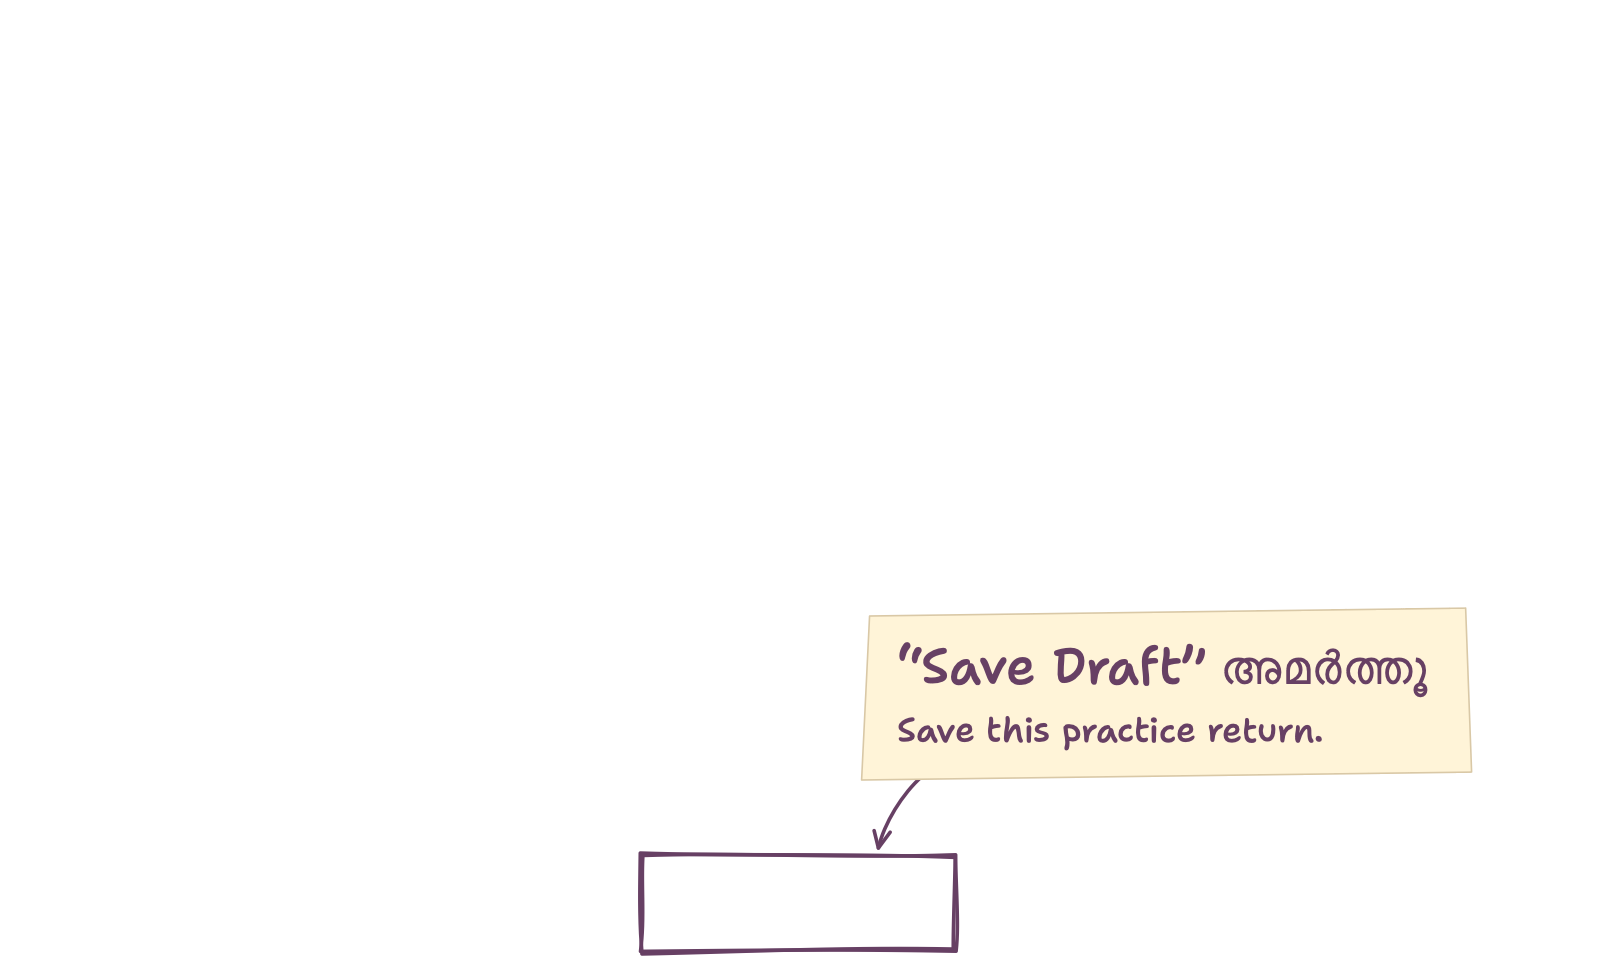
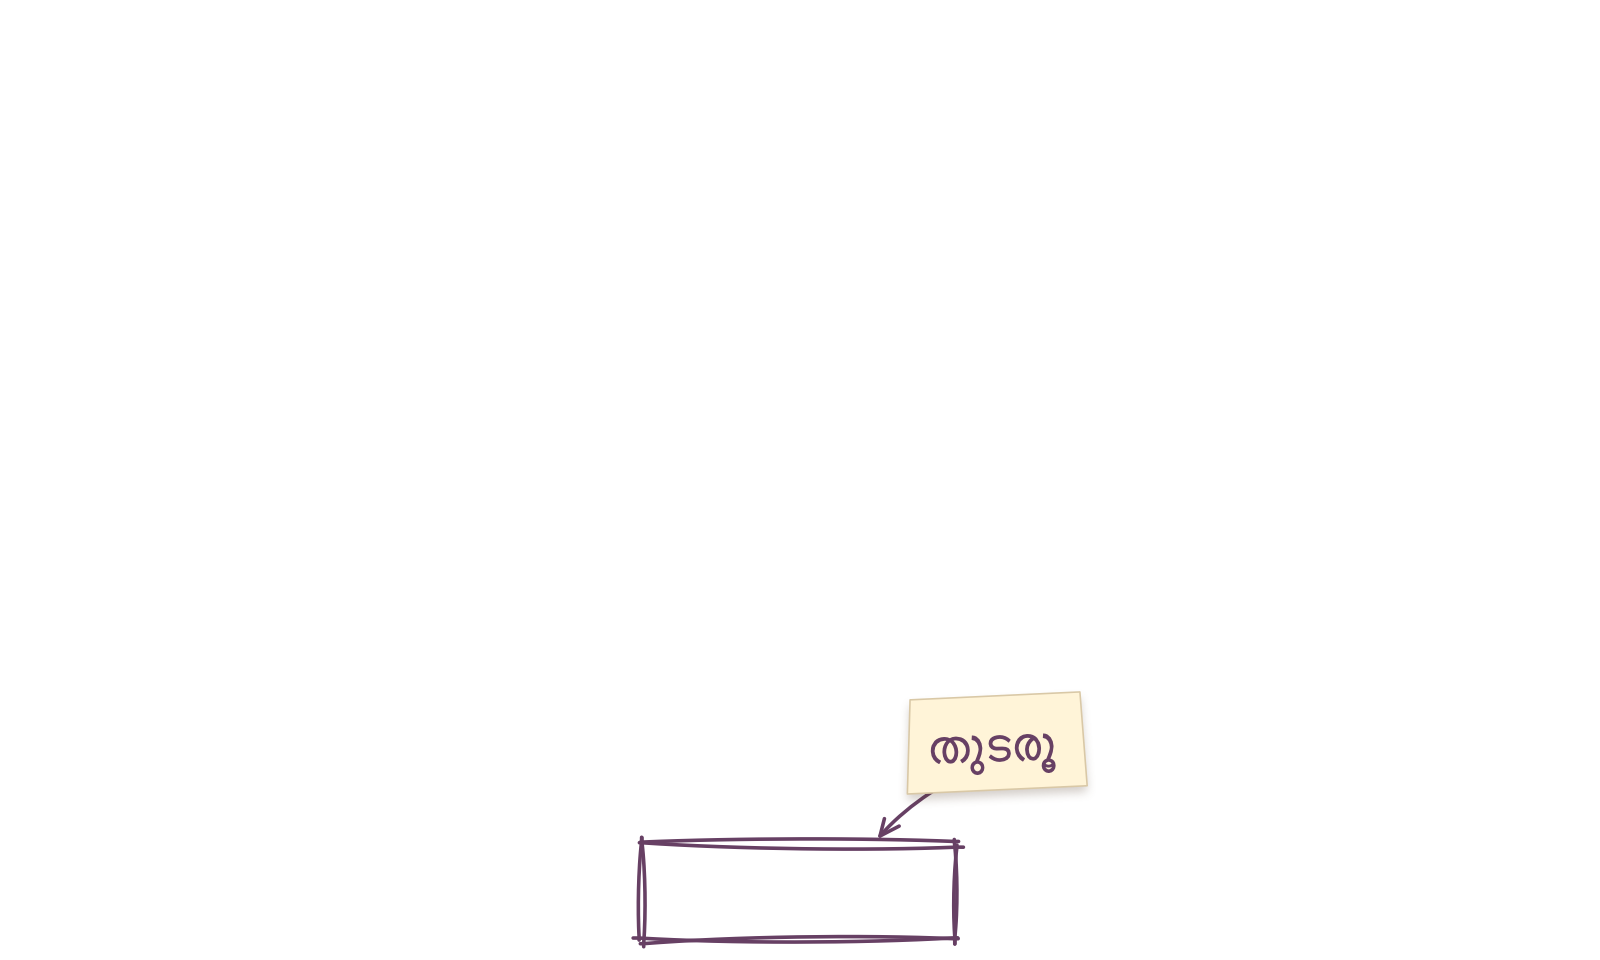
Give the sketch pointer rougher ink and a closer, text-fitted note

Changed region(s): [[0.5312, 0.625, 0.9375, 0.8438], [0.375, 0.8438, 0.625, 1.0]]

diff --git a/companion/overlay/drawing.py b/companion/overlay/drawing.py
@@ -1,7 +1,7 @@
 """Original AppKit paths and text layout for the selected plum and paper style."""
 
 from functools import lru_cache
-from math import ceil, hypot
+from math import ceil, cos, hypot, radians, sin
 from pathlib import Path
 from random import Random
 
@@ -65,53 +65,85 @@ def line_path(points, width, close=False):
     return path
 
 
-def outline(target, seed):
+ROUGHNESS = 1.9
+PAPER_ANGLE = -2
+TILT_SIN = abs(sin(radians(PAPER_ANGLE)))
+TILT_COS = cos(radians(PAPER_ANGLE))
+PAD_X, PAD_Y = 12, 7
+
+
+def outline(target, seed, lean):
+    """One pen pass. Bow each side, then extend its tangents beyond the corners."""
     x, y, w, h = target
     rng = Random(seed)
-
-    def jitter():
-        return rng.uniform(-1.9, 1.9)
-
     left, right = x - 8, x + w + 8
     top, bottom = y - 7, y + h + 7
+    # Each pass starts at slightly different corners. A modest offset plus
+    # independent errors lets the lines meet at some corners and splay at others.
     corners = [(left, top), (right, top), (right, bottom), (left, bottom)]
-    corners = [(a + jitter(), b + jitter()) for a, b in corners]
+    corners = [(a + lean * .85 + rng.uniform(-ROUGHNESS, ROUGHNESS),
+                b + lean * .85 + rng.uniform(-ROUGHNESS, ROUGHNESS)) for a, b in corners]
     path = line_path(corners[:1], 1.8)
+    tails = []
     for (sx, sy), (ex, ey) in zip(corners, corners[1:] + corners[:1]):
         dx, dy = ex - sx, ey - sy
-        first = (sx + dx * .33 + jitter(), sy + dy * .33 + jitter())
-        second = (sx + dx * .67 + jitter(), sy + dy * .67 + jitter())
+        length = hypot(dx, dy)
+        ux, uy = dx / length, dy / length
+        bow = min(1.55 * ROUGHNESS, length * .035) * rng.uniform(.8, 1.2) * lean
+        first = (sx + dx * .30 - uy * bow, sy + dy * .30 + ux * bow)
+        second = (sx + dx * .72 - uy * bow, sy + dy * .72 + ux * bow)
         path.curveToPoint_controlPoint1_controlPoint2_((ex, ey), first, second)
+        before, after = rng.uniform(.4, 1.6), rng.uniform(1.4, 4.2)
+        tails.extend([((sx - ux * before, sy - uy * before), (sx, sy)),
+                      ((ex, ey), (ex + ux * after, ey + uy * after))])
     path.closePath()
+    for start, end in tails:
+        path.moveToPoint_(start)
+        path.lineToPoint_(end)
     return path
 
 
-def draw_arrow(note, target):
+def arrow_ends(note, target):
     x, y, w, h = note
     tx, ty, tw, th = target
-    # Select facing edges. A small horizontal offset gives the stem a bend.
-    if y+h <= ty or ty+th <= y:
-        above = y+h <= ty
-        ex = clamp(x+w/2, tx+tw*.22, tx+tw*.78)
-        ey = ty-11 if above else ty+th+11
-        sx = clamp(ex+22, x+16, x+w-16)
-        sy = y+h-2 if above else y+2
+    # Start just inside the paper. The last few points are covered by the
+    # rotated card, so the ink meets its edge cleanly in either direction.
+    if y + h <= ty or ty + th <= y:
+        above = y + h <= ty
+        points_left = x + w / 2 >= tx + tw / 2
+        inset = min(30, tw * .25)
+        ex = tx + tw - inset if points_left else tx + inset
+        reach = 46 if points_left else -46
+        sx = clamp(ex + reach, x + 10, x + w - 10)
+        # A control can extend beyond both screen edges. Choose a reachable
+        # point on its border after the paper has been clamped to this display.
+        ex = clamp(sx - reach, tx + inset, tx + tw - inset)
+        sy = y + h - 11 if above else y + 11
+        ey = ty - 11 if above else ty + th + 11
     else:
-        left = x+w <= tx
-        ex, sx = (tx-12, x+w-2) if left else (tx+tw+12, x+2)
-        ey = clamp(y+h/2, ty, ty+th)
-        sy = clamp(ey+12, y+10, y+h-10)
-    dx, dy = ex-sx, ey-sy
+        left = x + w <= tx
+        ex, sx = (tx - 12, x + w - 6) if left else (tx + tw + 12, x + 6)
+        ey = clamp(y + h / 2, ty, ty + th)
+        sy = clamp(ey + 23, y + 10, y + h - 10)
+    return (sx, sy), (ex, ey)
+
+
+def draw_arrow(note, target):
+    start, end = arrow_ends(note, target)
+    sx, sy = start
+    ex, ey = end
+    dx, dy = ex - sx, ey - sy
     length = max(1, hypot(dx, dy))
-    nx, ny = -dy/length, dx/length
-    path = line_path([(sx, sy)], 1.8)
-    c2 = (ex-dx*.28+nx*4, ey-dy*.28+ny*4)
-    path.curveToPoint_controlPoint1_controlPoint2_((ex,ey), (sx+dx*.3+nx*4, sy+dy*.3+ny*4), c2)
+    nx, ny = -dy / length, dx / length
+    path = line_path([start], 1.8)
+    first = (sx + dx * .3 + nx * 5, sy + dy * .3 + ny * 5)
+    second = (ex - dx * .28 + nx * 4, ey - dy * .28 + ny * 4)
+    path.curveToPoint_controlPoint1_controlPoint2_(end, first, second)
     path.stroke()
-    length = max(1, hypot(c2[0]-ex, c2[1]-ey))
-    ax, ay = (c2[0]-ex)/length, (c2[1]-ey)/length
-    line_path([(ex+ax*9-ay*4, ey+ay*9+ax*4), (ex,ey),
-               (ex+ax*8+ay*4, ey+ay*8-ax*4)], 1.8).stroke()
+    length = max(1, hypot(second[0] - ex, second[1] - ey))
+    ax, ay = (second[0] - ex) / length, (second[1] - ey) / length
+    line_path([(ex + ax * 10 - ay * 4, ey + ay * 10 + ax * 4), end,
+               (ex + ax * 8 + ay * 4, ey + ay * 8 - ax * 4)], 1.8).stroke()
 
 
 class SketchPointerView(A.NSView):
@@ -121,33 +153,63 @@ class SketchPointerView(A.NSView):
     @objc.python_method
     def configure(self, target, visible, instruction, subtitle):
         self.target = target
-        self.outlines = [outline(target, seed) for seed in (31, 47)]
-        self.lines = []
-        for text, size in ((instruction, 25), (subtitle, 17)):
-            if text:
-                self.lines.append(lettering(text, size))
-        natural = max((line.size().width for line in self.lines), default=0)
-        width = min(visible[2]-16, 460, max(120, ceil(natural)+38))
-        self.heights = [ceil(line.boundingRectWithSize_options_(
-            (width-36, 10000), TEXT_OPTIONS).size.height) for line in self.lines]
-        height = 26 + sum(self.heights) + 4 * max(0, len(self.lines)-1)
-        self.note = place_note(target, visible, width, height)
+        self.outlines = [outline(target, 31, 1), outline(target, 47, -.8)]
+        self.lines = [lettering(text, size) for text, size in ((instruction, 25), (subtitle, 17))
+                      if text.strip()]
+
+        # Reserve room for rotation before measuring. Use the widest actual
+        # wrapped line so short translations and single-word prompts fit snugly.
+        available_w, available_h = visible[2] - 20, visible[3] - 20
+        max_width = min(420, available_w - min(available_h, 420) * TILT_SIN)
+        measure_width = max(1, max_width - 2 * PAD_X)
+        sizes = [line.boundingRectWithSize_options_((measure_width, 10000), TEXT_OPTIONS).size
+                 for line in self.lines]
+        self.text_width = min(measure_width, ceil(max((size.width for size in sizes), default=0)) + 1)
+        self.heights = [ceil(size.height) for size in sizes]
+        width = self.text_width + 2 * PAD_X
+        height = 2 * PAD_Y + sum(self.heights) + 2 * max(0, len(sizes) - 1)
+        # Keep even an unusually tall note's rotated paper inside the screen.
+        height = min(height, (available_h - width * TILT_SIN) / TILT_COS,
+                     (available_w - width * TILT_COS) / TILT_SIN)
+        self.paper_size = width, height
+        self.note = place_note(target, visible, width * TILT_COS + height * TILT_SIN,
+                               height * TILT_COS + width * TILT_SIN)
 
     def drawRect_(self, dirty):
         INK.setStroke()
         for path in self.outlines:
             path.stroke()
         draw_arrow(self.note, self.target)
-        x, y, w, h = self.note
-        paper = line_path([(x+4,y+4), (x+w-3,y), (x+w,y+h-4), (x,y+h)], .8, True)
-        PAPER.setFill()
-        BORDER.setStroke()
-        paper.fill()
-        paper.stroke()
-        top = y+12
-        for line, height in zip(self.lines, self.heights):
-            room = min(height, y+h-10-top)
-            if room <= 0:
-                break
-            line.drawWithRect_options_(((x+18, top), (w-36, room)), TEXT_OPTIONS)
-            top += height+4
+
+        x, y, nw, nh = self.note
+        w, h = self.paper_size
+        A.NSGraphicsContext.saveGraphicsState()
+        try:
+            transform = A.NSAffineTransform.transform()
+            transform.translateXBy_yBy_(x + nw / 2, y + nh / 2)
+            transform.rotateByDegrees_(PAPER_ANGLE)
+            transform.translateXBy_yBy_(-w / 2, -h / 2)
+            transform.concat()
+            paper = line_path([(3, 1), (w - 2, 0), (w, h - 1), (0, h)], .8, True)
+            A.NSGraphicsContext.saveGraphicsState()
+            try:
+                shadow = A.NSShadow.alloc().init()
+                shadow.setShadowColor_(A.NSColor.colorWithSRGBRed_green_blue_alpha_(.28, .18, .10, .24))
+                shadow.setShadowOffset_((0, -3))
+                shadow.setShadowBlurRadius_(5)
+                shadow.set()
+                PAPER.setFill()
+                paper.fill()
+            finally:
+                A.NSGraphicsContext.restoreGraphicsState()
+            BORDER.setStroke()
+            paper.stroke()
+            top = PAD_Y
+            for line, height in zip(self.lines, self.heights):
+                room = min(height, h - PAD_Y - top)
+                if room <= 0:
+                    break
+                line.drawWithRect_options_(((PAD_X, top), (self.text_width, room)), TEXT_OPTIONS)
+                top += height + 2
+        finally:
+            A.NSGraphicsContext.restoreGraphicsState()

diff --git a/tests/test_overlay_layout.py b/tests/test_overlay_layout.py
@@ -1,0 +1,57 @@
+"""Exercise text shaping and paper layout together, without opening a window."""
+
+from math import ceil, dist
+import unittest
+
+import AppKit as A
+
+from companion.overlay.drawing import PAD_X, PAD_Y, TEXT_OPTIONS, SketchPointerView, arrow_ends
+
+
+class NoteLayoutTests(unittest.TestCase):
+    def layout(self, text, subtitle="", target=(240, 325, 122, 36)):
+        A.NSApplication.sharedApplication()
+        view = SketchPointerView.alloc().initWithFrame_(((0, 0), (800, 480)))
+        view.configure(target, (0, 0, 800, 480), text, subtitle)
+        return view
+
+    def test_single_line_hugs_the_text_in_both_languages(self):
+        for instruction in ("തുടരൂ", "Save"):
+            with self.subTest(instruction=instruction):
+                view = self.layout(instruction)
+                self.assertEqual(len(view.lines), 1)
+                measured = view.lines[0].size()
+                self.assertAlmostEqual(view.paper_size[0], measured.width + 2 * PAD_X, delta=2)
+                self.assertEqual(view.paper_size[1], ceil(measured.height) + 2 * PAD_Y)
+
+    def test_long_instruction_wraps_without_losing_the_last_line(self):
+        view = self.layout("‘Business Name’ എന്ന ബോക്സിൽ പരിശീലനത്തിനായി ഒരു സാങ്കൽപ്പിക കടപ്പേര് എഴുതുക.")
+        self.assertLessEqual(view.paper_size[0], 420)
+        line = view.lines[0]
+        self.assertGreater(view.heights[0], line.size().height * 2)
+        drawn = line.boundingRectWithSize_options_((view.text_width, 10000), TEXT_OPTIONS)
+        self.assertEqual(view.heights[0], ceil(drawn.size.height))
+        self.assertEqual(view.paper_size[1], view.heights[0] + 2 * PAD_Y)
+
+    def test_rotated_note_and_arrow_fit_near_edges(self):
+        for target in [(16, 17, 140, 34), (644, 17, 140, 34),
+                       (16, 429, 140, 34), (644, 429, 140, 34)]:
+            with self.subTest(target=target):
+                view = self.layout("Click “Save Draft”", "Save this practice return.", target)
+                x, y, w, h = view.note
+                self.assertGreater(h, view.paper_size[1])
+                self.assertGreaterEqual(min(x, y), 10)
+                self.assertGreaterEqual(min(800 - x - w, 480 - y - h), 9.99)
+                # The card reaches over a corner in x, leaving the button free in y.
+                tx, ty, tw, th = target
+                self.assertGreater(min(x + w, tx + tw) - max(x, tx), 0)
+                self.assertTrue(y > ty + th or y + h < ty)
+                length = dist(*arrow_ends(view.note, target))
+                self.assertTrue(30 <= length <= 60, length)
+
+    def test_wide_control_keeps_arrow_on_the_chosen_display(self):
+        target = (-300, 300, 1400, 40)
+        view = self.layout("Continue", target=target)
+        start, end = arrow_ends(view.note, target)
+        self.assertTrue(0 <= end[0] <= 800)
+        self.assertTrue(30 <= dist(start, end) <= 60)

diff --git a/tests/test_overlay_live.py b/tests/test_overlay_live.py
@@ -49,6 +49,7 @@ def main():
     win = A.NSWindow.alloc().initWithContentRect_styleMask_backing_defer_(
         ((160, 260), (310, 150)), A.NSWindowStyleMaskTitled, A.NSBackingStoreBuffered, False)
     win.setTitle_("Companion pointer test")
+    win.setLevel_(A.NSFloatingWindowLevel)
     counter = SketchButtonCounter.alloc().init()
     counter.clicks = 0
     button = A.NSButton.buttonWithTitle_target_action_("Practice", counter, "clicked:")
@@ -82,7 +83,11 @@ def main():
 
         # Use the system hit-test result, then post to our own app queue. A
         # foreign window, including one moved here mid-test, cannot get a click.
-        recipient = A.NSWindow.windowNumberAtPoint_belowWindowWithWindowNumber_(centre, 0)
+        def window_at_centre():
+            return A.NSWindow.windowNumberAtPoint_belowWindowWithWindowNumber_(centre, 0)
+
+        pump_until(lambda: window_at_centre() == win.windowNumber())
+        recipient = window_at_centre()
         assert recipient == win.windowNumber(), (recipient, win.windowNumber(), panel.windowNumber())
         location = win.convertPointFromScreen_(centre)
         for kind in (A.NSEventTypeLeftMouseDown, A.NSEventTypeLeftMouseUp):

diff --git a/companion/overlay/geometry.py b/companion/overlay/geometry.py
@@ -33,14 +33,15 @@ def place_note(target: Rect, bounds: Rect, width: float, height: float) -> Rect:
     """Try the preview's above-right placement first, then flip away from edges."""
     x, y, w, h = target
     sx, sy, sw, sh = bounds
-    margin, gap = 8, 45
+    margin, gap = 10, 32
     left, top = sx + margin, sy + margin
     right, bottom = sx + sw - margin, sy + sh - margin
     width, height = min(width, right - left), min(height, bottom - top)
     max_x, max_y = right - width, bottom - height
-    tx = x + min(w * .72, 124)
+    overlap = min(w / 2, 18)
+    tx = x + w - overlap
     if tx > max_x:
-        tx = x + w * .28 - width
+        tx = x + overlap - width
     tx = clamp(tx, left, max_x)
     ty = clamp(y + h / 2 - height / 2, top, max_y)
     candidates = [

diff --git a/docs/overlay-verification.md b/docs/overlay-verification.md
@@ -1,45 +1,46 @@
 # Native sketch pointer verification
 
-Verified 21 November 2026 on the build Mac with Python 3.13, PyObjC 13.0 and one 1470 × 956 pt display at 2×. The PNGs contain only the pointer view and synthetic instructions. The live alignment test uses a separate one-button fixture. Integration QA uses the repository's AIMS practice app.
+Verified 21 November 2026 on one 1470 × 956 pt display at 2× with Python 3.13 and PyObjC 13.0. The six transparent PNGs contain the overlay and sample instructions. The comparison uses crops of the approved local preview and synthetic buttons.
+
+## Appearance at display scale
+
+[Open the side-by-side comparison](overlay-renders/compare-preview.png). The upper row uses the preview’s “Publish project” label, button dimensions and two lines of English in both panels. The lower right overlays the actual Malayalam PNG on a dark sample button. One native point corresponds to one preview pixel.
+
+The two plum passes meet on portions of the side edges, separate along the longer edges and carry a few points past the corners. The native card has a 2° counterclockwise tilt, a warm shadow under its lower edge and tighter padding than the approved fixed-size web card. The English comparison retains the 25 pt instruction and 17 pt subtitle. The Malayalam instruction sits in a 320 × 48 pt card with one line.
+
+| Evidence | Sample | Inspection |
+| --- | --- | --- |
+| automated | [English](overlay-renders/english.png) | “Click Save Draft” sits on one compact line with balanced space above and below. |
+| automated | [Malayalam and English label](overlay-renders/malayalam-english.png) | “Prepare Online” and തുറക്കൂ share the tilted baseline. Vowel signs are visible and there are no missing-glyph boxes. |
+| automated | [Top](overlay-renders/top.png) | The paper flips below the target. The practice form’s full Malayalam instruction for “Business Name” wraps to three lines on a 405 × 116 pt card. The final word fits. |
+| automated | [Bottom](overlay-renders/bottom.png) | The one-word Malayalam prompt തുടരൂ fits on a 90 × 48 pt card above the target. |
+| automated | [Left](overlay-renders/left.png) | The note extends inward to the right. Its smaller English subtitle sits directly below the instruction. |
+| automated | [Right](overlay-renders/right.png) | The note extends to the left and the arrow bends back to the top edge of the target. |
+| automated | [Preview comparison](overlay-renders/compare-preview.png) | Both native arrows meet the paper near its corner. The reference leaves more space between the target and the paper. |
+
+## Verification
 
 | Evidence | Check | Result |
 | --- | --- | --- |
-| automated | `.venv/bin/python -m unittest` | 24 passed, 0 failed. Six overlay tests cover fractional coordinates, displays above and left, a target across a display boundary, edge placement, horizontal placement beside tall targets, and the actual mixed-script font runs. |
-| automated | Core Text shaping | The English run used the process-registered Shantell Sans at INFM 35, BNCE 16 and wght 500. Malayalam used Malayalam Sangam MN. All glyph IDs in the mixed “Prepare Online” instruction were nonzero. |
-| automated | Offscreen render | Six CLI exports passed. Each was 1600 × 960 pixels for an 800 × 480 pt transparent sample canvas on this Mac. A second invocation for each sample produced identical PNG bytes. |
-| live-machine | `.venv/bin/python -m tests.test_overlay_live` | Accessibility returned the button frame (256, 612, 118, 26) in global top-left points. The fixture independently reported the button centre at (315, 330) in AppKit points. Both painted paths contained the centre. Their maximum per-axis centre deviations were 1.25 and 1.53 pt, within the 3 pt tolerance. |
-| live-machine | Click-through and focus | With the pointer ordered above the key fixture window, the system window hit test at the button centre returned the fixture window number. The harness posted one down/up pair to that window through its own AppKit event queue. The button fired once, the fixture kept keyboard focus and the overlay stayed visible. |
-| live-machine | Replacement and expiry | A second show hid the first window and invalidated its timer. The replacement disappeared after its default 45 seconds. The CLI also accepted an explicit duration and a rectangle starting at negative x. |
-| live-machine | `.venv/bin/python scripts/qa/run.py` | 8 passed, 0 failed, 0 blocked, 1 needs-human skip. The session start recorded `overlay=sketch` and `planner=scripted`. All 15 decisions in the AIMS sequence passed validation and the run observed both completion text and a fresh practice receipt. |
-| not done | Physical second display | The build Mac exposed one display. Above-primary and left-of-primary arrangements were exercised with synthetic screen frames. |
+| automated | `.venv/bin/python -m unittest` | 65 passed. Tests exercise the AX coordinate conversion, display selection, note flipping, single-language text fit, full wrapped Malayalam text, and arrow length at corners and across displays. |
+| automated | Font shaping | Core Text selected Shantell Sans at INFM 35, BNCE 16 and wght 500 for English, and Malayalam Sangam MN for Malayalam. The test checked that every glyph ID in the mixed sample was nonzero. |
+| automated | Repeat export | All six CLI renders and the comparison were byte-identical on repeat export. |
+| live-machine | `.venv/bin/python -m tests.test_overlay_live` | AX returned (256, 612, 118, 26) in global top-left points. Both drawn paths contained the independently measured AppKit button centre at (315, 330). Their maximum per-axis centre errors were 0.77 and 2.07 pt. |
+| live-machine | Click-through and lifetime | The system hit test selected the underlying fixture window. It received one down/up pair in its own event queue, fired the button once and retained keyboard focus. Replacement hid the old pointer, and the new pointer expired after 45 seconds. An earlier probe detected an intervening window and stopped before posting input. |
+| live-machine | `.venv/bin/python scripts/qa/run.py` | Final run at 20:28 IST passed 8 checks with 0 failures, 0 blocked and 1 needs-human skip. The session logged `overlay=sketch`, all 15 AIMS decisions validated and completion included a fresh practice receipt. Three earlier runs during shared fixture use had 3, 2 and 2 failures involving step progression, receipt detection or initial controls. |
+| not done | Physical second display | The build Mac exposed one display. Above-primary and left-of-primary cases used synthetic screen frames. |
 
-The first click probe used a PID-addressed Quartz event and timed out waiting for the button. The passing probe above checks system window selection and then delivers through the fixture queue. A physical mouse click remains on the human checklist. Both full QA runs produced the counts above, including the final run at 19:58 IST.
-
-## Render inspection
-
-| Evidence | PNG | Observed appearance |
-| --- | --- | --- |
-| automated | [English](overlay-renders/english.png) | Handwritten “Save Draft” and a smaller subtitle sit on a slanted cream card. A short curved plum arrow ends just outside the double outline. |
-| automated | [Malayalam and English](overlay-renders/malayalam-english.png) | The quoted English label and Malayalam തുറക്കൂ share one line. The Malayalam vowel marks are visible and there are no missing-character boxes. |
-| automated | [Top](overlay-renders/top.png) | The card sits below the target and the arrow points up. |
-| automated | [Bottom](overlay-renders/bottom.png) | The card sits above the target with both lines visible. |
-| automated | [Left](overlay-renders/left.png) | The paper extends inward to the right. The left outline stroke fits inside the canvas. |
-| automated | [Right](overlay-renders/right.png) | The paper extends inward to the left. The arrow curves down from its right corner. |
-
-To reproduce the mixed-language sample from the repository root, run
+To reproduce the mixed-label example from the repository root, run
 
 ```sh
 .venv/bin/python -m companion.overlay --rect 240,325,122,36 \
-  --text '“Prepare Online” തുറക്കൂ' --subtitle 'Open the practice return.' \
-  --render docs/overlay-renders/malayalam-english.png
+  --text '“Prepare Online” തുറക്കൂ' --render docs/overlay-renders/malayalam-english.png
 ```
-
-Omit `--render` to use global AX coordinates on the live display. Use `--seconds 5` for a short preview.
 
 ## Human checks
 
-- **needs-human** — Follow the outline on a real practice control, move the practice window and confirm alignment by eye. Click the control while the pointer is visible.
-- **needs-human** — Inspect both strokes and the smaller subtitle on the Retina display at the normal viewing scale.
-- **needs-human** — Read the Malayalam instruction and quoted English label at arm's length.
+- **needs-human** — Follow the outline and click a real practice control after moving the practice window.
+- **needs-human** — Inspect the two strokes and smaller type on the Retina display at normal scale.
+- **needs-human** — Read a wrapped Malayalam instruction and its English control label at arm’s length.
 
 **Proposed contract changes** — None.
